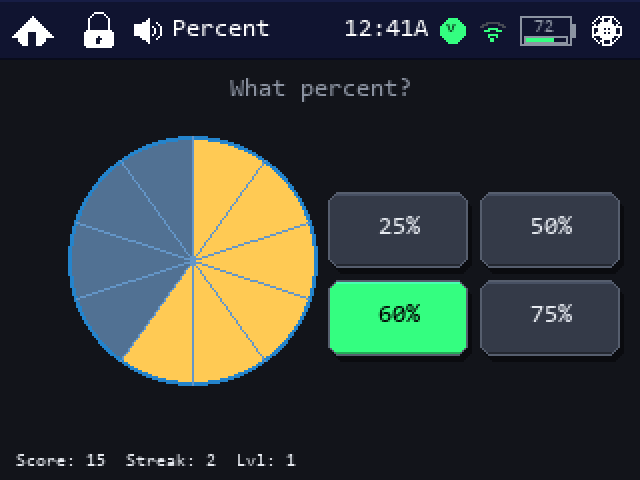
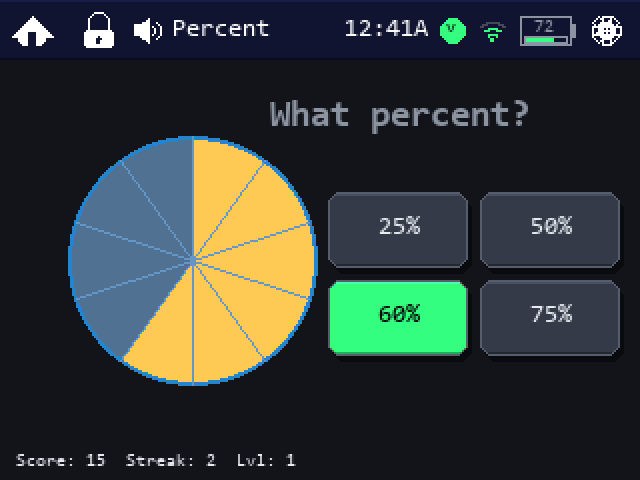
Percent: answer buttons take their ink from the theme
The right and wrong answer buttons in both multiple-choice rounds wrote
their label in TFT_BLACK on Ui::success() / Ui::error(), so on a theme
whose success or error colour is dark the number went dark with it. They
use Ui::onFill() of the fill now, as every other quiz does.

"Try again" was drawn at font 2 centred on (160, 60), the middle of the
font-4 question, for the half second of the red flash, so the question
read "W...percent?" whenever a player was wrong. It is right-aligned in
the bottom strip beside the score line now, and that strip's geometry is
named once (STRIP_Y / STRIP_H) for both its clear and the message.

The OK button no longer lighting up on the right amount -- the defect
issue 183 reports -- landed in 17c9368; this closes the last fixed colour
on those buttons. The read-the-circle mock-up drew its question at font 2
near the top bar; it now draws it where the game does, font 4 centred on
(200, 60), and the right answer's ink is on_fill() too. Checked on the PC
build: a wrong answer, a right answer and the flash ending.

Refs #183

Changed region(s): [[0.3438, 0.1562, 0.8438, 0.2812]]

diff --git a/src/games/PercentCircleGame.cpp b/src/games/PercentCircleGame.cpp
@@ -17,6 +17,9 @@ constexpr uint16_t PERCENT_OUTLINE = 0x2478;  // Ui::rgb(36, 132, 204) - blue
 constexpr int16_t CIRCLE_CX = 96;
 constexpr int16_t CIRCLE_CY = 130;
 constexpr int16_t CIRCLE_RADIUS = 62;
+/* The strip along the bottom: the score line, and "Try again" beside it. */
+constexpr int16_t STRIP_Y = 222;
+constexpr int16_t STRIP_H = 18;
 
 /* A flashIndex_ that is not one of the four option buttons: the make round's
  * OK was pressed on the wrong amount. That round has no option to flash, and
@@ -268,11 +271,11 @@ void PercentCircleGame::drawReadCircleMode(Ui::Renderer& tft) const {
 
         if (roundComplete_ && i == correctButton_) {
             fill = Ui::success();
-            text = TFT_BLACK;
+            text = Ui::onFill(fill);
             outline = Ui::success();
         } else if (flashIndex_ == i) {
             fill = Ui::error();
-            text = TFT_BLACK;
+            text = Ui::onFill(fill);
             outline = Ui::error();
         }
 
@@ -323,11 +326,11 @@ void PercentCircleGame::drawPercentOfNumberMode(Ui::Renderer& tft) const {
 
         if (roundComplete_ && i == correctButton_) {
             fill = Ui::success();
-            text = TFT_BLACK;
+            text = Ui::onFill(fill);
             outline = Ui::success();
         } else if (flashIndex_ == i) {
             fill = Ui::error();
-            text = TFT_BLACK;
+            text = Ui::onFill(fill);
             outline = Ui::error();
         }
 
@@ -449,7 +452,7 @@ void PercentCircleGame::renderDynamic(AppContext& host) {
 
     tft.setTextColor(Ui::text(), Ui::bg());
     tft.setTextDatum(TL_DATUM);
-    tft.fillRect(0, 222, GAME_CANVAS_WIDTH, 18, Ui::bg());
+    tft.fillRect(0, STRIP_Y, GAME_CANVAS_WIDTH, STRIP_H, Ui::bg());
     char scoreStr[48];
     snprintf(scoreStr, sizeof(scoreStr), "Score: %u  Streak: %u  Lvl: %u", score_, streak_, level());
     tft.drawString(scoreStr, 8, 226, 1);
@@ -463,11 +466,14 @@ void PercentCircleGame::renderDynamic(AppContext& host) {
         tft.drawString("Tap next", 160, 150, 2);
         tft.setTextDatum(TL_DATUM);
     } else if (flashIndex_ >= 0 && flashIndex_ != SUBMIT_REFUSED) {
-        /* Not for the make round: its refusal is the OK button itself, and
-         * this line would be written across the middle of "Shade N%". */
+        /* In the score strip, right of the score line, which the strip's own
+         * fill above clears on every repaint. It was centred on (160, 60) --
+         * the middle of the question, drawn over "What percent?" in a smaller
+         * font for as long as the red flash lasted. Not for the make round:
+         * its refusal is the OK button itself. */
         tft.setTextColor(Ui::error(), Ui::bg());
-        tft.setTextDatum(MC_DATUM);
-        tft.drawString("Try again", 160, 60, 2);
+        tft.setTextDatum(MR_DATUM);
+        tft.drawString("Try again", GAME_CANVAS_WIDTH - 8, STRIP_Y + STRIP_H / 2, 2);
         tft.setTextDatum(TL_DATUM);
     }
 }

diff --git a/tools/gen_screens.py b/tools/gen_screens.py
@@ -3601,8 +3601,8 @@ def about_updates():
 
 def percent():
     im, d = blank(); topbar(d, "Percent")
-    q = "What percent?"
-    d.text((W / 2 - d.textlength(q, font=F2) / 2, 38), q, font=F2, fill=MUTED)
+    q = "What percent?"   # PercentCircleGame: font 4, centred on (200, 60)
+    d.text((200 - d.textlength(q, font=F4) / 2, 48), q, font=F4, fill=MUTED)
 
     # Draw circle at (96, 130) with radius 62
     cx, cy, r = 96, 130, 62
@@ -3640,7 +3640,7 @@ def percent():
     for i, pct in enumerate(["25%", "50%", "60%", "75%"]):
         rr = (164 + (i % 2) * 76, 96 + (i // 2) * 44, 70, 38)
         button(d, rr, pct, SUCCESS if pct == "60%" else PANEL,
-               (0, 0, 0) if pct == "60%" else TEXT)
+               on_fill(SUCCESS) if pct == "60%" else TEXT)
 
     # Score line
     d.text((8, 226), "Score: 15  Streak: 2  Lvl: 1", font=F1, fill=TEXT)

diff --git a/CHANGELOG.md b/CHANGELOG.md
@@ -527,6 +527,15 @@ And in both multiple-choice rounds a wrong tap flashed the *correct* button --
 in red, so it told the answer and mislabelled it at once. The button that was
 pressed is the one that flashes now.
 
+Percent's answer buttons also take their ink from the theme now. A right or
+wrong answer was written in black on the green or red fill whatever the
+theme, so on the themes whose success and error colours are dark the number
+on the button went dark with them. It is `Ui::onFill()` of the fill, as on
+every other quiz. And "Try again" was written in small type across the
+middle of the question for as long as the red flash lasted; it is in the
+strip along the bottom now, beside the score. The read-the-circle mock-up
+draws the question where the game does, large and centred over the buttons.
+
 ## attaky-1.0.0-SNAPSHOT — Unreleased
 
 Braino! for Attaky: the same console on Attaky's modular handhelds, released
